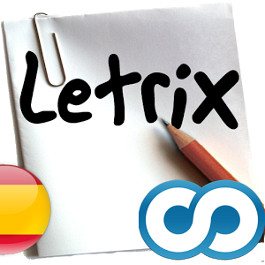
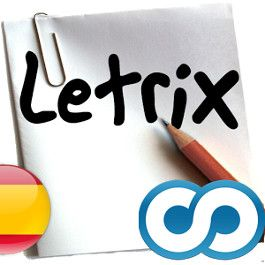
Añado imagen y redirect para english y optimizo jpgs

diff --git a/letrix/redirect_en.html b/letrix/redirect_en.html
@@ -1,0 +1,6 @@
+<HTML>
+<HEAD>
+<meta http-equiv="Pragma" content="no-cache">
+<meta HTTP-EQUIV="REFRESH" content="0; url=http://play.google.com/store/apps/details?id=es.andromedesoft.letrixen">
+</HEAD>
+</HTML>
